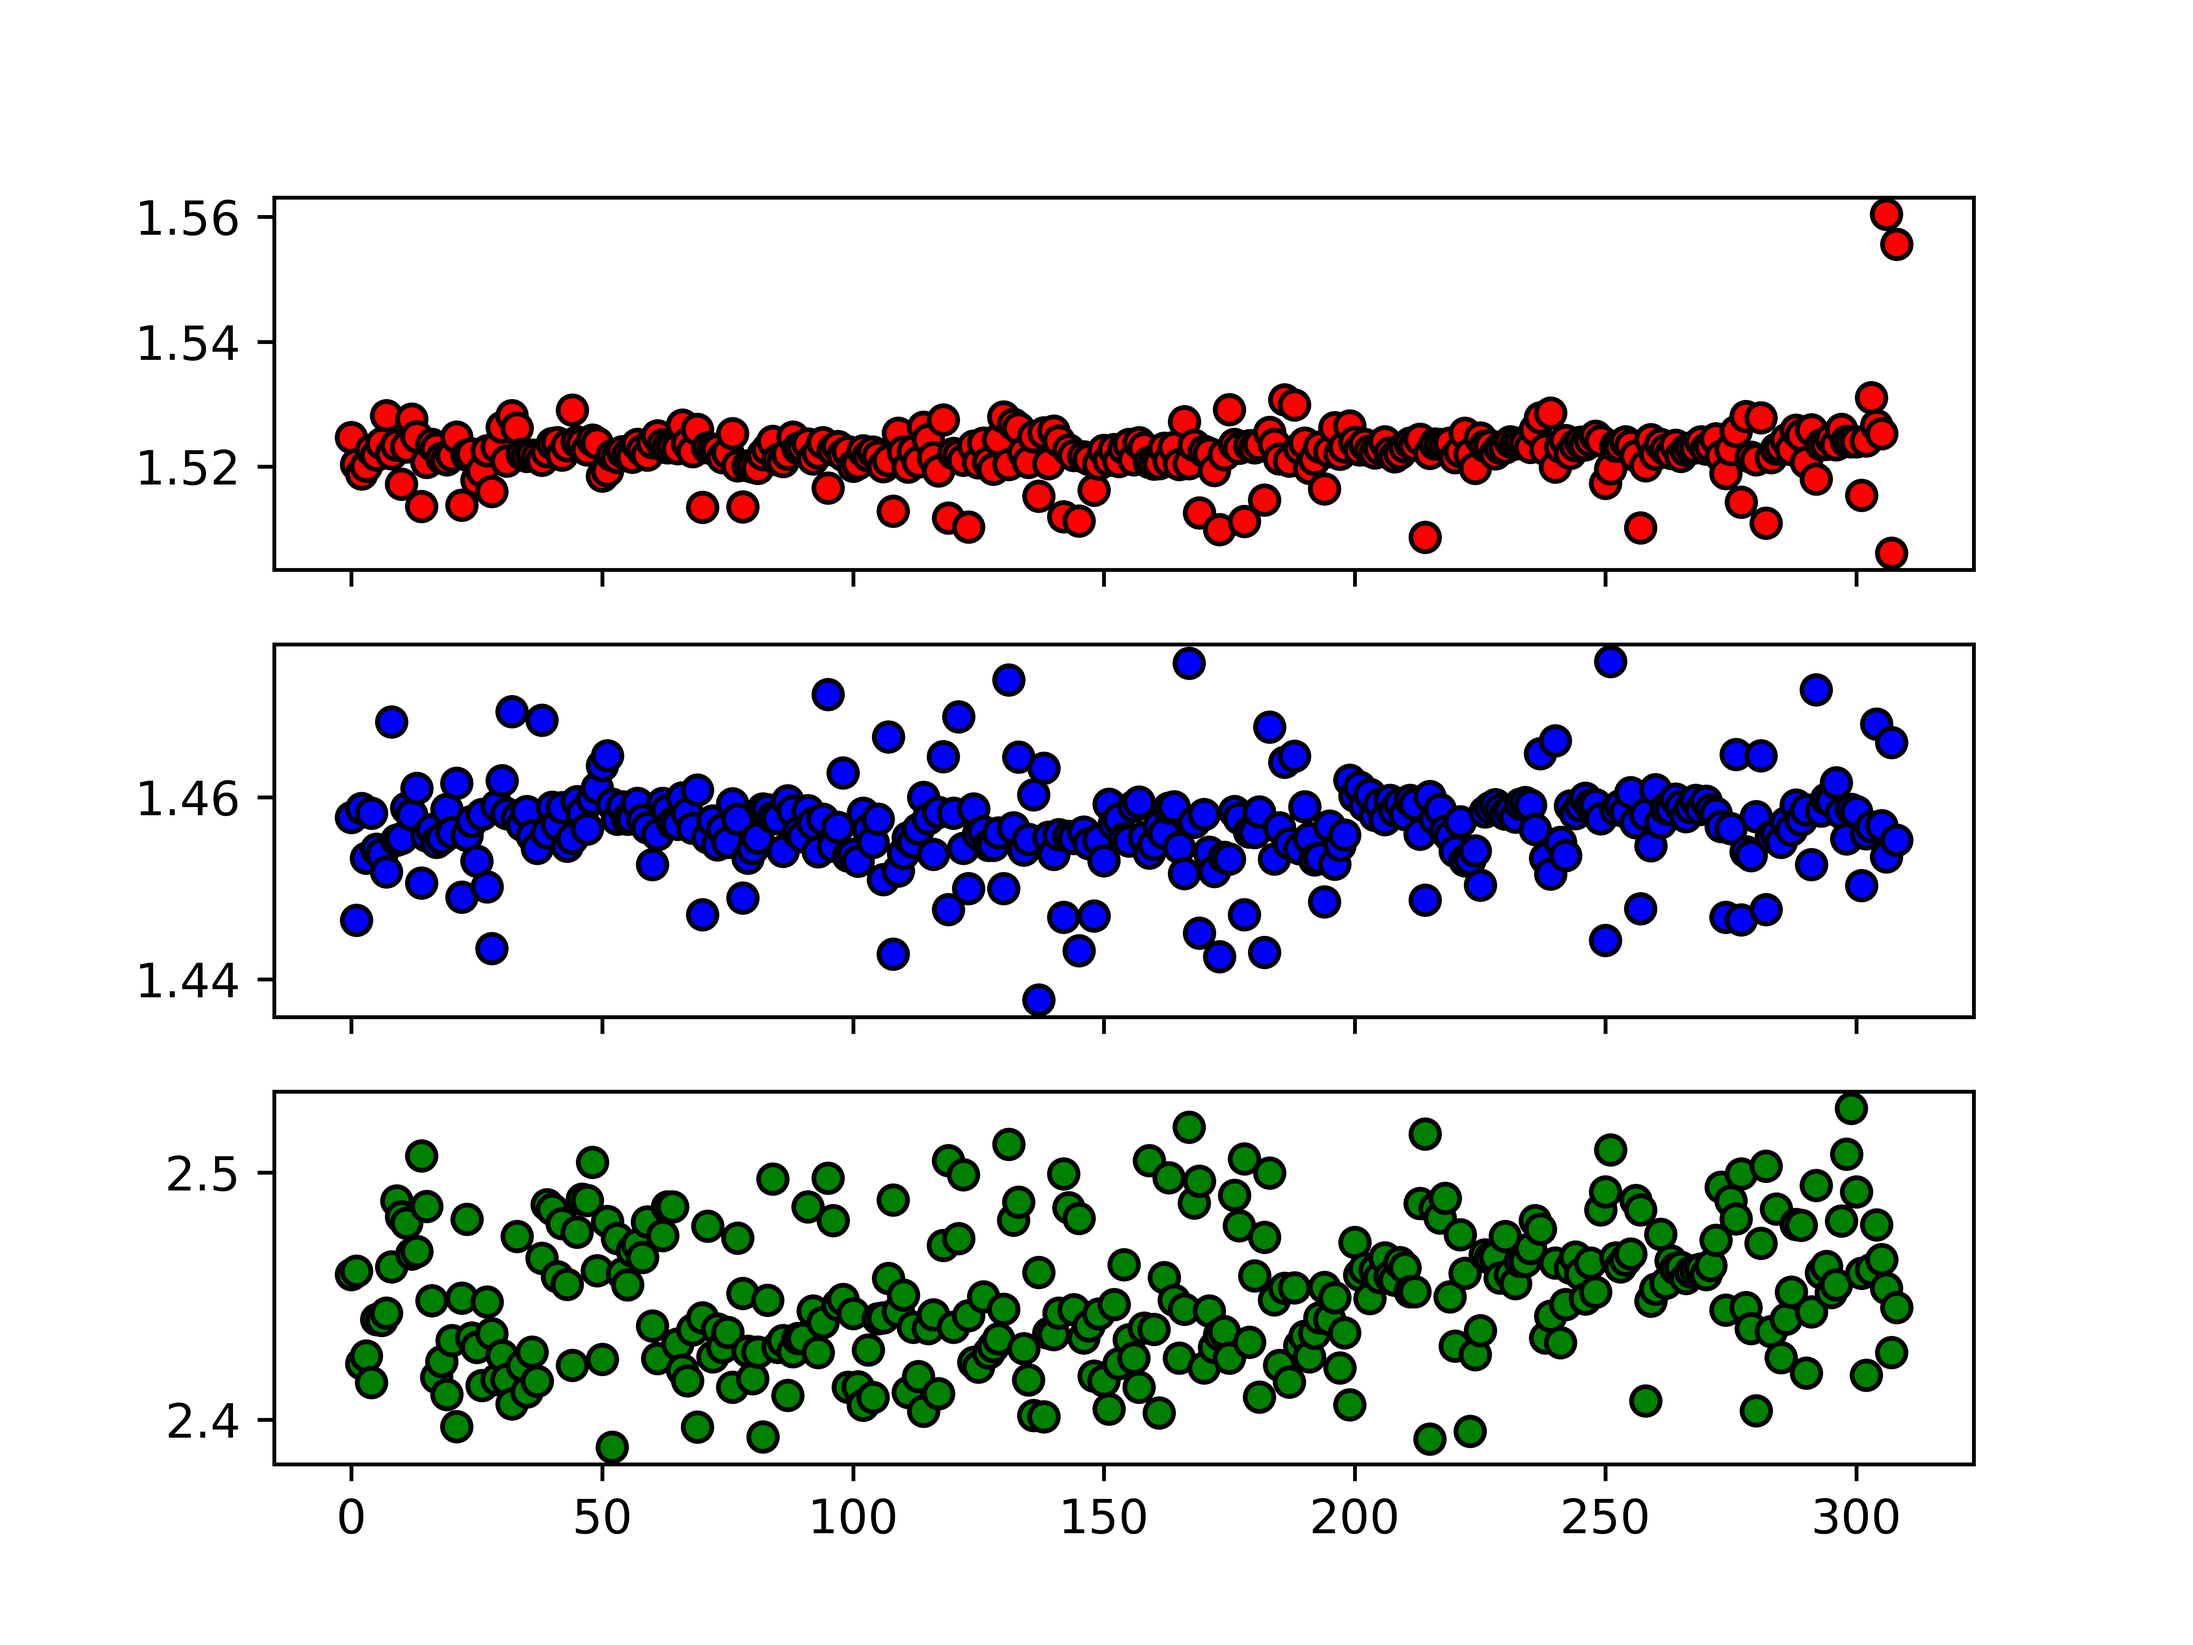
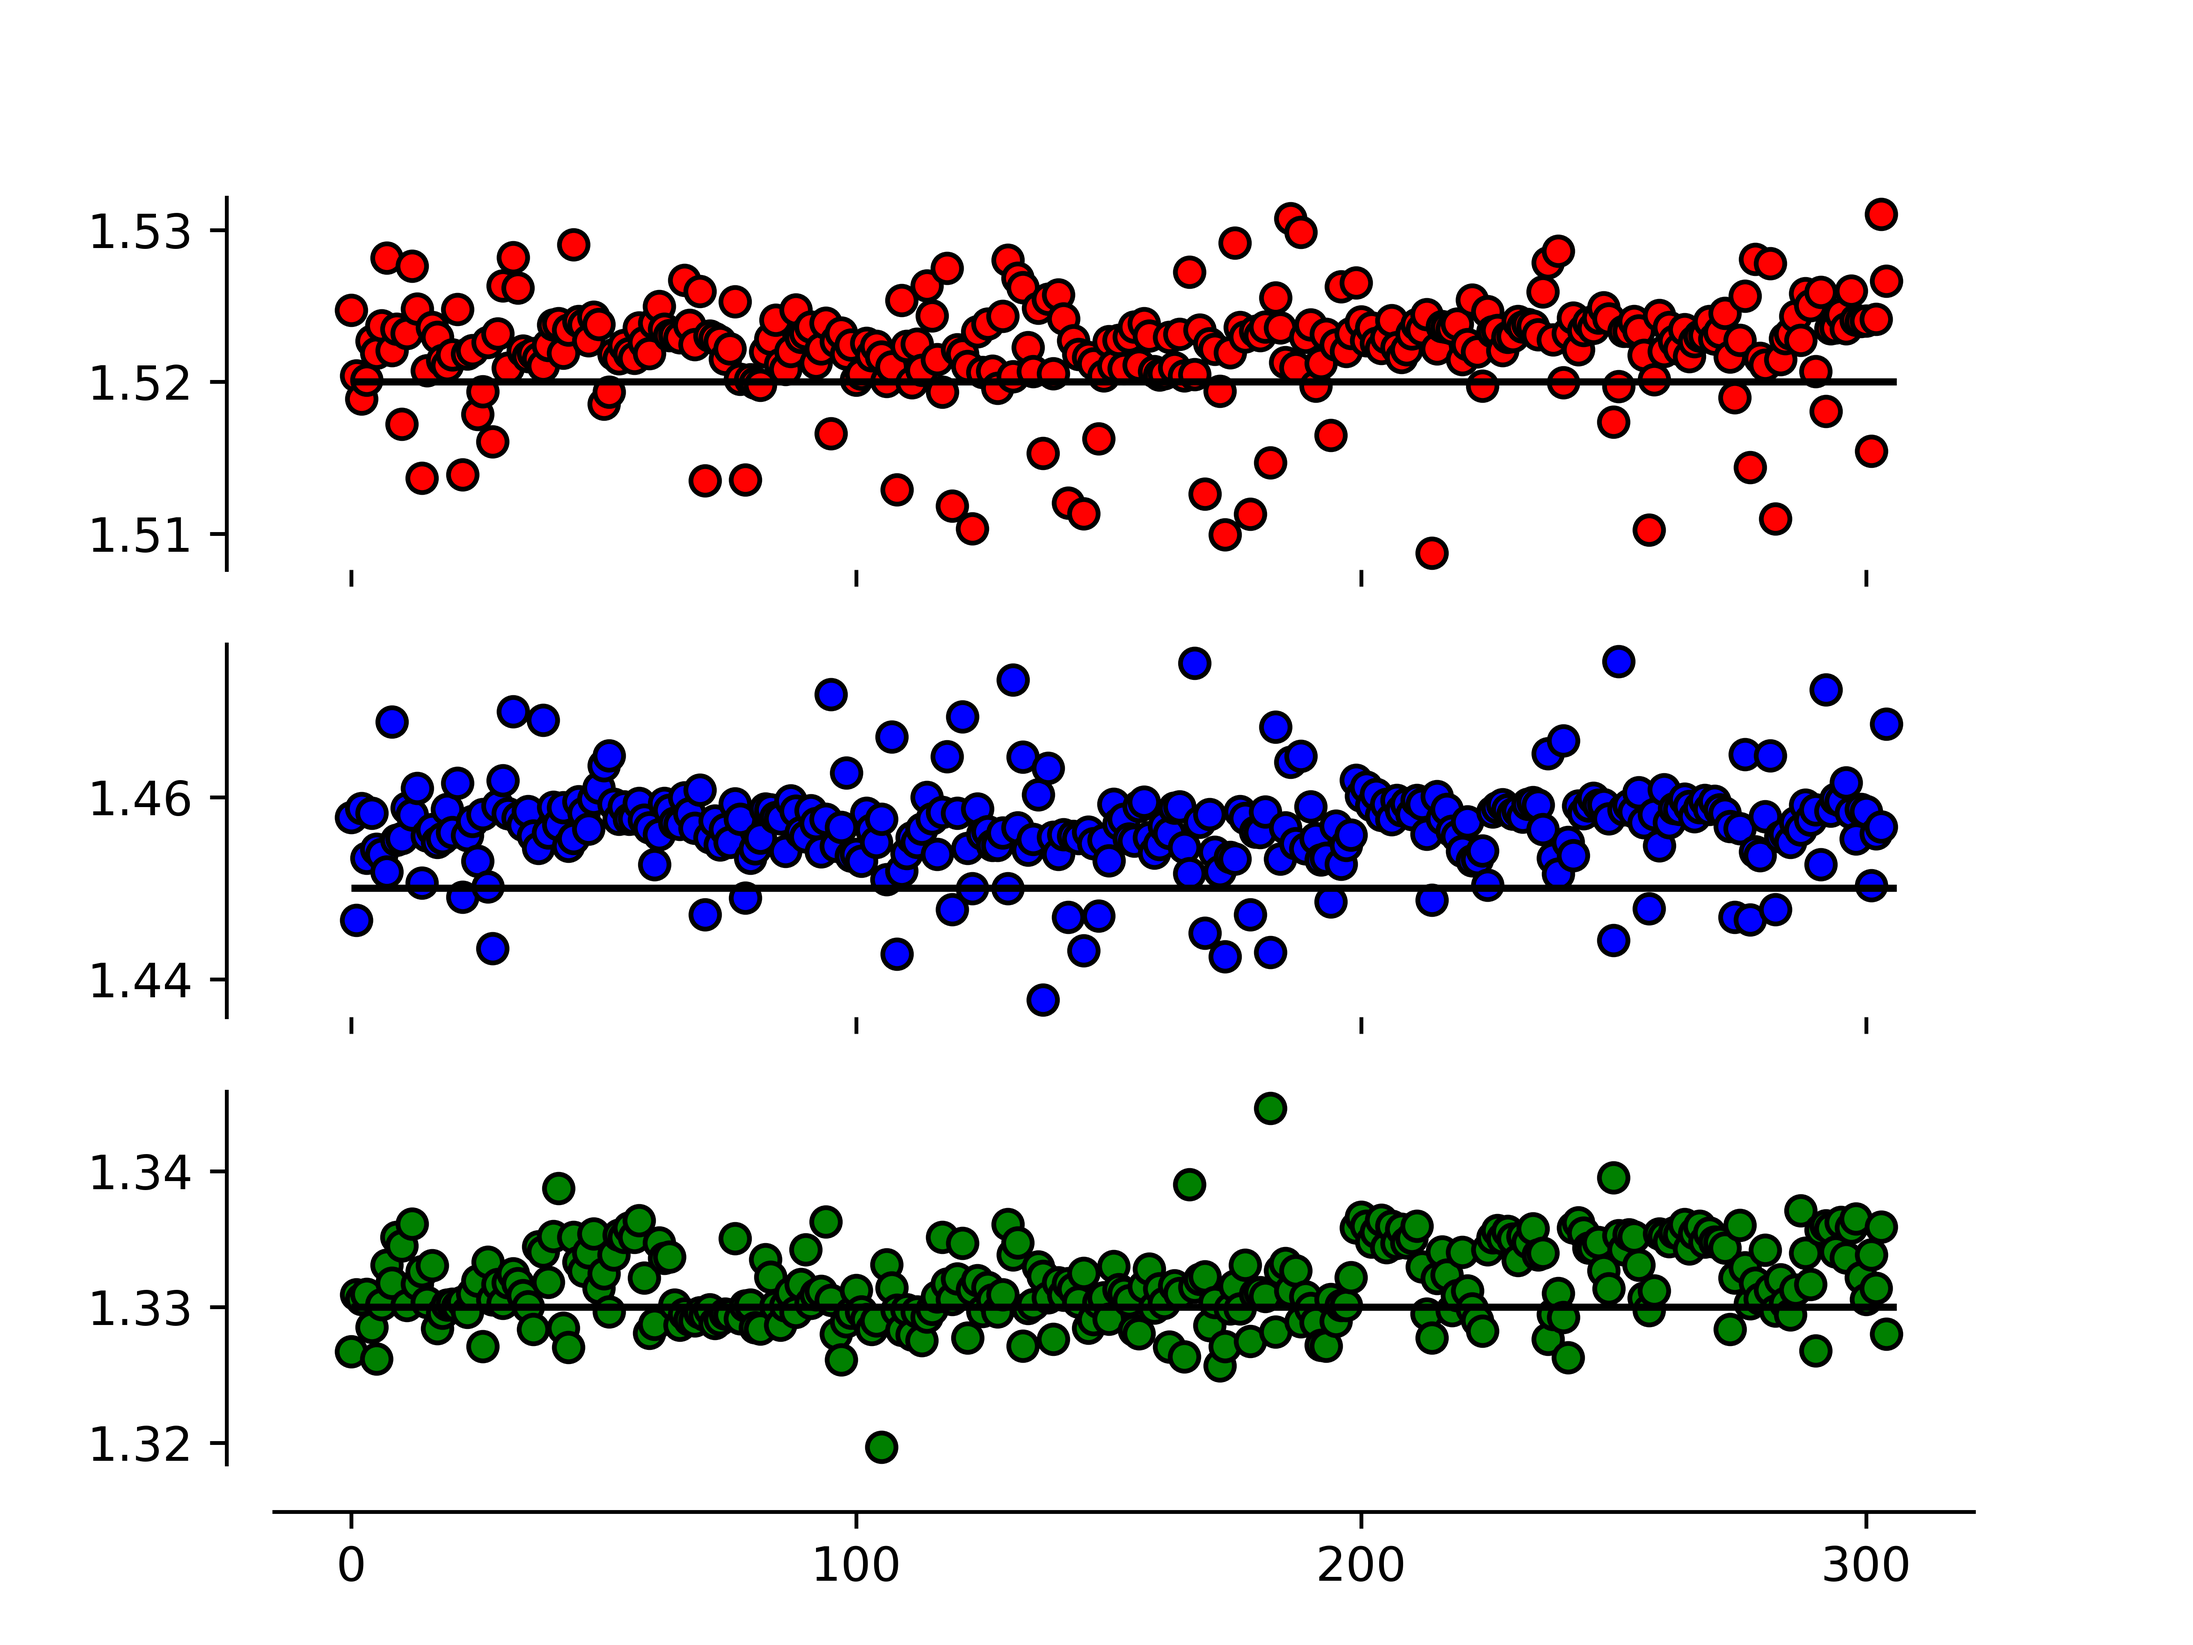
Adding new task

diff --git a/tarefa5/biopython.py b/tarefa5/biopython.py
@@ -7,6 +7,16 @@ parser = PDBParser()
 
 structure = parser.get_structure('protease', '6lu7.pdb')
 
+residues = []
+
+
+for residue in structure.get_residues():
+
+    hetflag, *_ = residue.get_id()
+
+    if hetflag == ' ':
+
+        residues.append(residue)
 
 
 # 1) Calculating bond distances by position
@@ -15,23 +25,45 @@ values = {}
 
 n = 0
 
-for residue in structure.get_residues():
+for i in range(len(residues) - 1):
 
-    hetflag, *_ = residue.get_id()
+    dis1 = residues[i]['CA'] - residues[i]['C']
 
-    if hetflag == ' ':
+    dis2 = residues[i]['CA'] - residues[i]['N']
 
-        dis1 = residue['CA'] - residue['C']
+    dis3 = residues[i]['C'] - residues[i+1]['N']
 
-        dis2 = residue['CA'] - residue['N']
+    dis3 = 1.33 if dis3 > 3.0 else dis3
 
-        dis3 = residue['C'] - residue['N']
+    values[n] = [residues[i].get_resname(), dis1, dis2, dis3]
 
-        values[n] = [residue.get_resname(), dis1, dis2, dis3]
+    print(residues[i].get_resname(), dis3)
 
-        n+=1
+    n+=1
 
 fig, (ax1, ax2, ax3) = plt.subplots(3, 1, sharex=True)
+
+ax1.hlines(1.52, 0, len(residues))
+ax2.hlines(1.45, 0, len(residues))
+ax3.hlines(1.33, 0, len(residues))
+
+ax1.spines['right'].set_visible(False)
+ax1.spines['top'].set_visible(False)
+ax1.spines['bottom'].set_visible(False)
+ax1.spines['left'].set_position(('outward', 10))
+ax1.set_xticks([])
+ax2.spines['right'].set_visible(False)
+ax2.spines['top'].set_visible(False)
+ax2.spines['bottom'].set_visible(False)
+ax2.spines['left'].set_position(('outward', 10))
+ax1.set_xticks([])
+ax3.spines['right'].set_visible(False)
+ax3.spines['top'].set_visible(False)
+ax3.spines['bottom'].set_position(('outward', 10))
+ax3.spines['left'].set_position(('outward', 10))
+ax3.set_xticks([0, 100, 200, 300])
+
+#ax1.set_xticks([], [])
 
 for n, (res, dis1, dis2, dis3) in values.items():
 
@@ -39,19 +71,19 @@ for n, (res, dis1, dis2, dis3) in values.items():
     ax2.scatter(n, dis2, edgecolors='black', c='blue')
     ax3.scatter(n, dis3, edgecolors='black', c='green')
 
-# plt.savefig('distances.png', dpi=800)
+plt.savefig('distances.png', dpi=800)
 
 # 2) Calculating the torsion angles
+
+plt.clf()
 
 values = {}
 
 n = 0
 
-for residue in structure.get_residues():
+for residue in residues:
 
-    hetflag, *_ = residue.get_id()
-
-    if hetflag == ' ' and residue.get_resname() != 'GLY':
+    if residue.get_resname() != 'GLY':
 
         nitro = residue['N'].get_vector()
         carbo = residue['C'].get_vector()
@@ -61,6 +93,10 @@ for residue in structure.get_residues():
         angle1 = calc_angle(nitro, calfa, carbo) / 3.14 * 180 
         angle2 = calc_angle(cbeta, calfa, carbo) / 3.14 * 180
         angle3 = calc_angle(nitro, calfa, cbeta) / 3.14 * 180
+
+        if residue.get_resname() == 'SER':
+
+            print(angle1, angle2, angle3)
 
         values[n] = [residue.get_resname(), angle1, angle2, angle3]
 
@@ -75,22 +111,98 @@ for n, (res, dis1, dis2, dis3) in values.items():
     ax2.scatter(n, dis2, c='blue', edgecolors='black')
     ax3.scatter(n, dis3, c='green', edgecolors='black')
 
+ax1.spines['right'].set_visible(False)
+ax1.spines['top'].set_visible(False)
+ax1.spines['bottom'].set_visible(False)
+ax1.spines['left'].set_position(('outward', 10))
+ax1.set_xticks([])
+ax2.spines['right'].set_visible(False)
+ax2.spines['top'].set_visible(False)
+ax2.spines['bottom'].set_visible(False)
+ax2.spines['left'].set_position(('outward', 10))
+ax1.set_xticks([])
+ax3.spines['right'].set_visible(False)
+ax3.spines['top'].set_visible(False)
+ax3.spines['left'].set_position(('outward', 10))
+ax3.set_xticks([0, 100, 200, 300])
 
-# plt.savefig('torsionagles.png', dpi=800)
+plt.savefig('torsionagles.png', dpi=800)
+
+# Torsion angles by aa type
+
+values = {}
+
+n = 0
+
+for residue in residues:
+
+    if residue.get_resname() != 'GLY':
+
+        nitro = residue['N'].get_vector()
+        carbo = residue['C'].get_vector()
+        calfa = residue['CA'].get_vector()
+        cbeta = residue['CB'].get_vector()
+        # angle1 = calc_angle(nitro, carbo, calfa) / 3.14 * 180
+        angle1 = calc_angle(nitro, calfa, carbo) / 3.14 * 180 
+        angle2 = calc_angle(cbeta, calfa, carbo) / 3.14 * 180
+        angle3 = calc_angle(nitro, calfa, cbeta) / 3.14 * 180
+
+        if residue.get_resname() in values:
+            
+            values[residue.get_resname()].append([angle1, angle2, angle3])
+
+        else:
+
+            values[residue.get_resname()] = [[angle1, angle2, angle3]]
+
+fig, (ax1, ax2, ax3) = plt.subplots(3, 1, sharex=True)
+
+colors = {
+'ALA':'green',
+'ARG':'purple',
+'ASN':'blue',
+'ASP':'red',
+'CYS':'yellow',
+'GLU':'red',
+'GLN':'blue',
+'GLY':'green',
+'HIS':'purple',
+'ILE':'green',
+'LEU':'green',
+'LYS':'purple',
+'MET':'yellow',
+'PHE':'green',
+'PRO':'green',
+'SER':'blue',
+'THR':'blue',
+'TRP':'green',
+'TYR':'green',
+'VAL':'green'
+}
+
+
+for aa, data in values.items():
+
+    for (dis1, dis2, dis3) in data:
+
+        ax1.scatter(aa, dis1, c=colors[aa], edgecolors='black')
+        ax2.scatter(aa, dis2, c=colors[aa], edgecolors='black')
+        ax3.scatter(aa, dis3, c=colors[aa], edgecolors='black')
+
+ax1.spines['right'].set_visible(False)
+ax1.spines['top'].set_visible(False)
+ax1.spines['bottom'].set_visible(False)
+ax2.spines['right'].set_visible(False)
+ax2.spines['top'].set_visible(False)
+ax2.spines['bottom'].set_visible(False)
+ax3.spines['right'].set_visible(False)
+ax3.spines['top'].set_visible(False)
+plt.xticks(rotation=45)
+
+plt.savefig('aatorsionagles.png', dpi=800)
 
 
 # 3) Calculating diheadral angles by position
-
-residues = []
-
-
-for residue in structure.get_residues():
-
-    hetflag, *_ = residue.get_id()
-
-    if hetflag == ' ':
-
-        residues.append(residue)
 
 
 plt.clf()
@@ -119,15 +231,46 @@ for i in range(1, len(residues) - 1):
 
     psi = psi * 180 / 3.14
 
-    print(phi, psi)
-
     # data['phi'].append(phi)
     # data['psi'].append(psi)
 
-    plt.scatter(phi, psi, edgecolors='black')
+    plt.scatter(phi, psi, color=colors[residues[i].get_resname()], edgecolors='black')
+
+plt.legend()
+plt.savefig('ramachandran.png', dpi=800)
+
+
+for i in range(1, len(residues) - 1):
+
+    nitro = residues[i]['N'].get_vector()
+    calfa = residues[i]['CA'].get_vector()
+    carbo = residues[i]['C'].get_vector()
+    carbomenos1 = residues[i - 1]['C'].get_vector()
+    calfamenos1 = residues[i - 1]['CA'].get_vector()
+    nitromais1 = residues[i + 1]['N'].get_vector()
+    calfamais1 = residues[i + 1]['CA'].get_vector()
+
+    phi = calc_dihedral(calfamenos1, carbomenos1, nitro, calfa)
+
+    phi = calc_dihedral(carbomenos1, nitro, calfa, carbo)
+
+    phi = phi * 180 / 3.14
+
+    psi = calc_dihedral(calfa, carbo, nitromais1, calfamais1)
+
+    psi = calc_dihedral(nitro, calfa, carbo, nitromais1)
+
+    psi = psi * 180 / 3.14
+
+    if residue.get_resname() in values:
+        
+        values[residue.get_resname()].append([phi, psi])
+
+    else:
+
+        values[residue.get_resname()] = [[phi, psi]]
 
 
 # sns.kdeplot(data['phi'], data['psi'], cmap='Reds', shade=True, shade_lowest=True, bw=0.1)
 
 
-plt.savefig('ramachandran.png', dpi=800)
